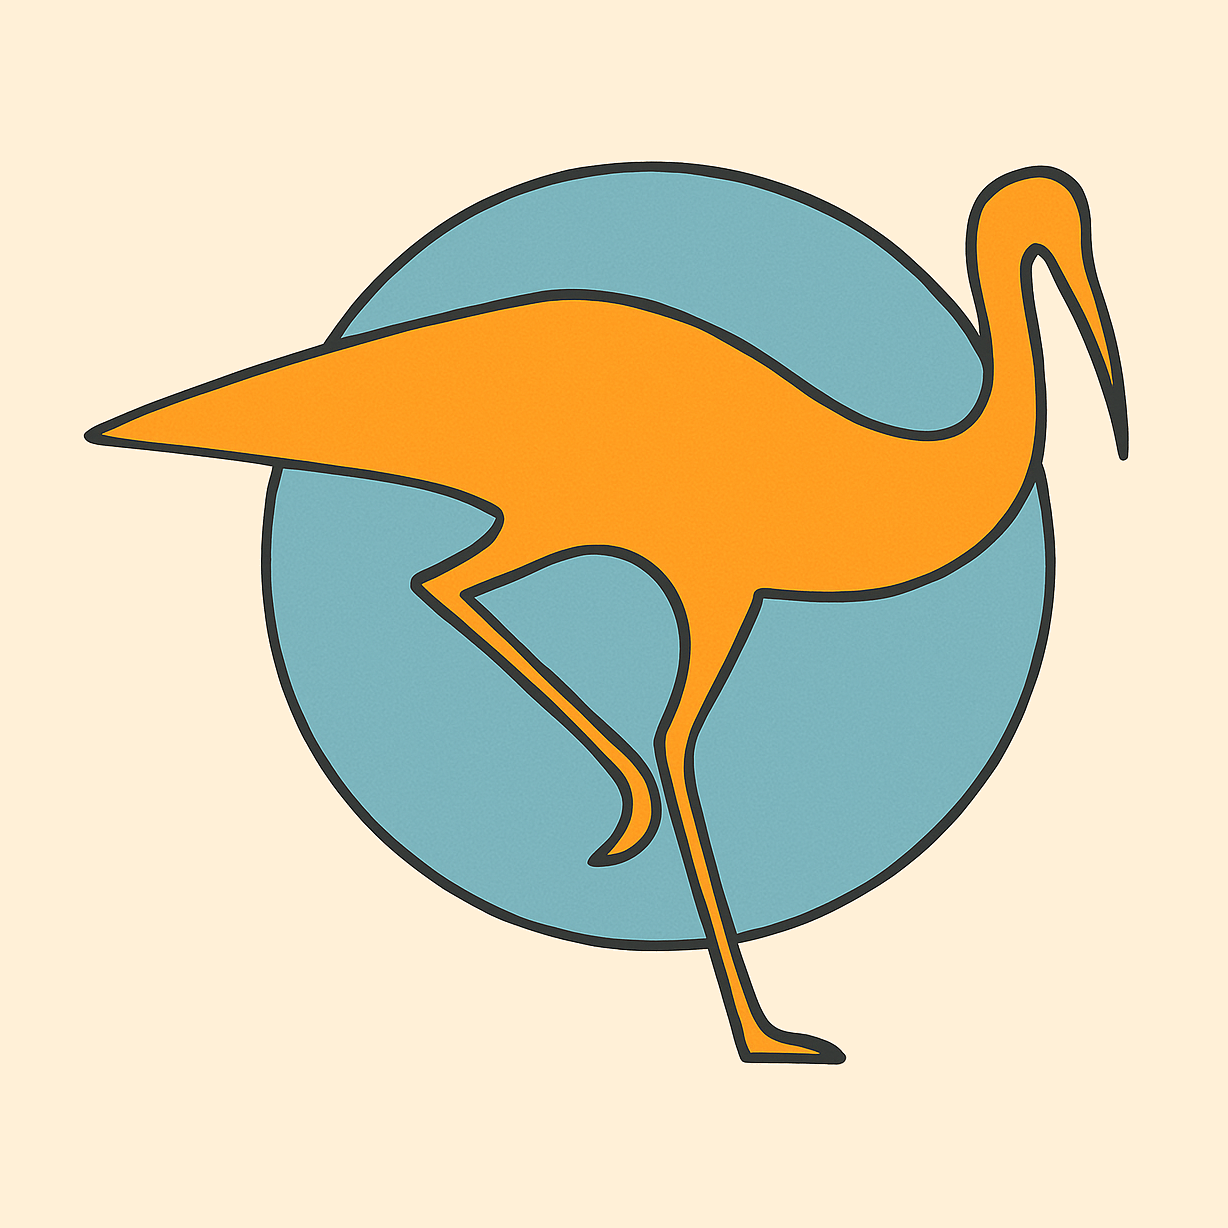
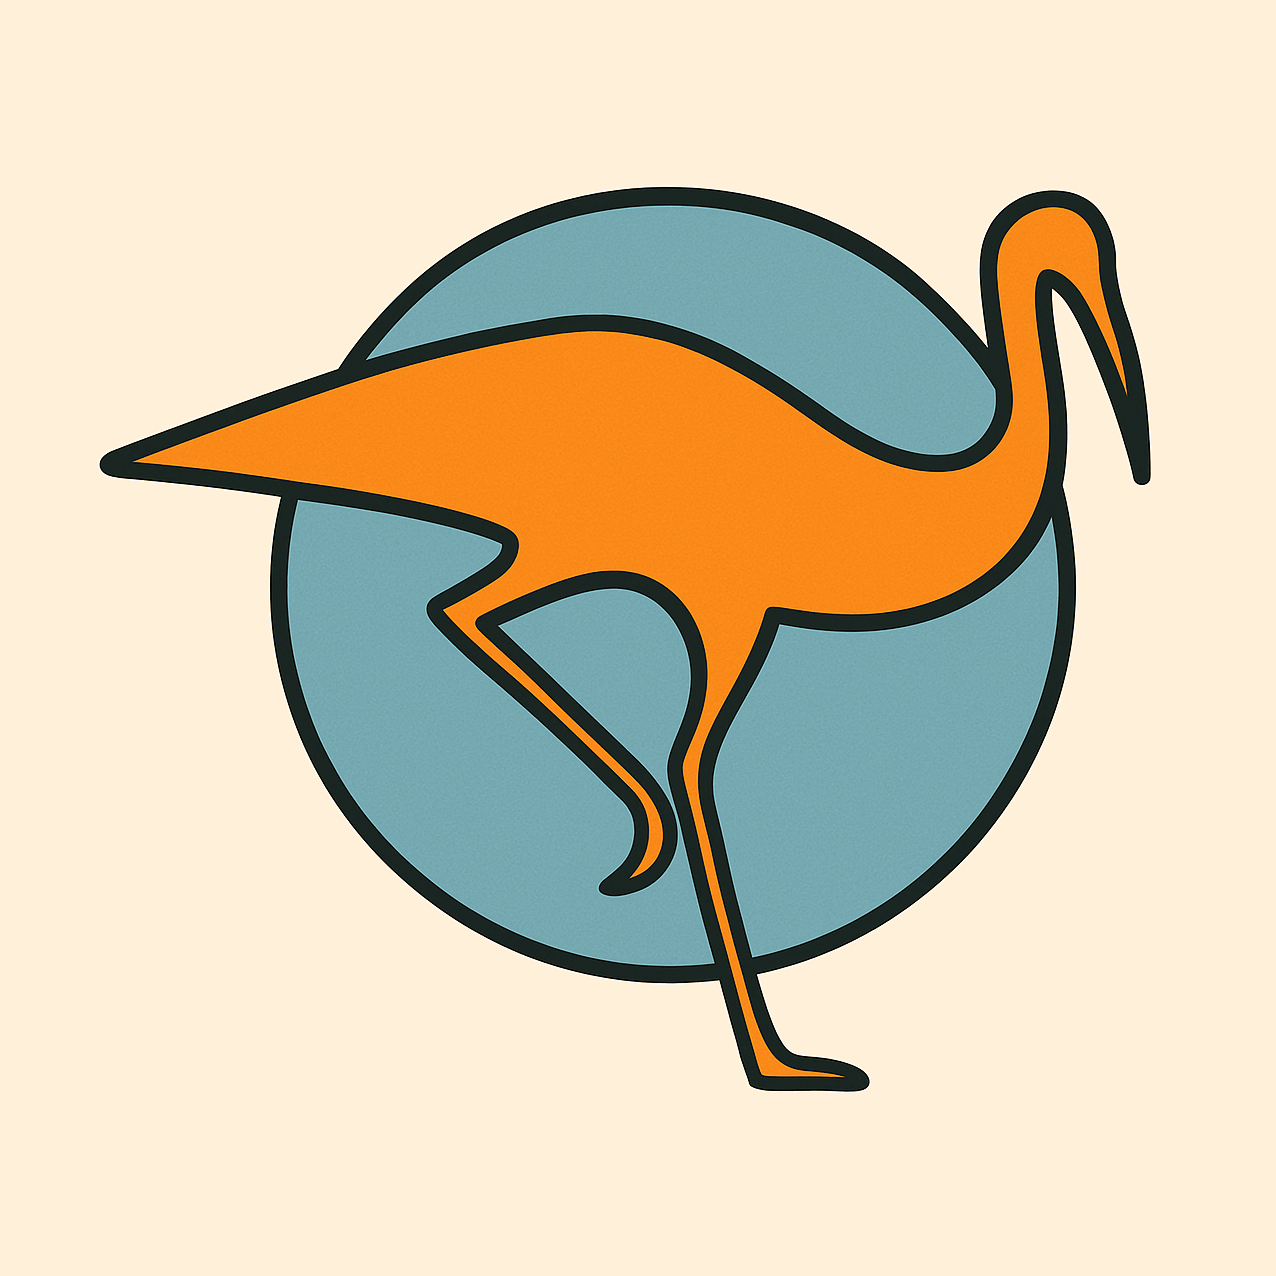
Crane image with thicker outlines

Changed region(s): [[0.0619, 0.1238, 0.9283, 0.8664]]

diff --git a/portfolio/fr/Intérêts/Thérapies Somatiques et Hakomi.md b/portfolio/fr/Intérêts/Thérapies Somatiques et Hakomi.md
@@ -23,7 +23,7 @@ Dans les méthodes qui traitent le trauma du développement et d'attachement, on
 
 Aujourd'hui les méthodes somatiques ont une très forte influence aux États-Unis, il existe 3 Masters se spécialisant en Psychothérapie Somatique, et ces méthodes sont utilisées pour les thérapies assistées par psychédéliques (Mischke-Reeds, 2025).
 # Thérapie Somatique Hakomi
-Hakomi (Kurtz, 2015; Weiss et al., 2015) est la modalité de thérapie principale dans laquelle je suis formé, elle fonde en grande partie l'idée de la psychothérapie que je veux pratiquer.
+Hakomi (Kurtz, 2015; Weiss et al., 2015) est une modalité de thérapie dans laquelle je suis en formation, c'est une large inspiration dans mon orientation.
 
 C'est difficile de décrire les processus qui sont en jeu dans une session Hakomi et je pense qu'il faut en faire l'expérience pour se le représenter mais je vais essayer de donner quelques principes.
 
